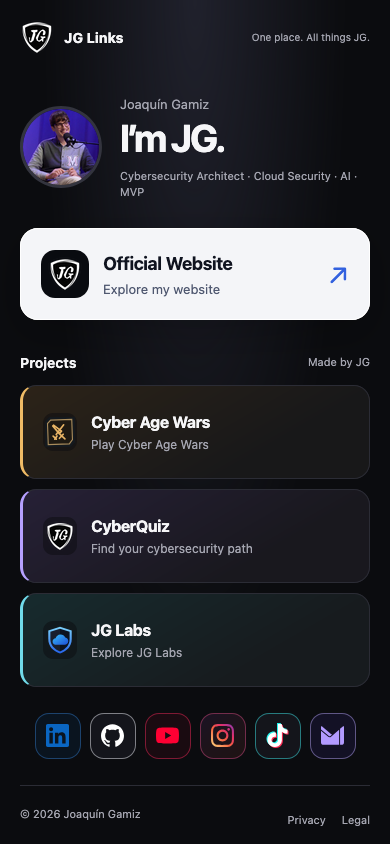
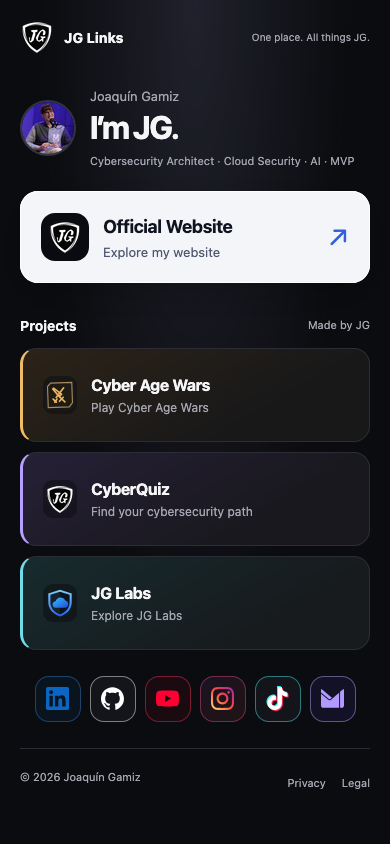
fix: compact portrait and refresh cached responsive styles

diff --git a/assets/css/main.css b/assets/css/main.css
@@ -17,15 +17,16 @@ img { display: block; max-width: 100%; }
 .shell { width: min(calc(100% - 40px), 800px); margin-inline: auto; }
 .skip-link { position: fixed; top: 12px; left: 12px; z-index: 10; padding: 12px 18px; background: white; color: black; border-radius: 8px; transform: translateY(-160%); }
 .skip-link:focus { transform: none; }
-.site-header { display: flex; align-items: center; justify-content: space-between; padding-block: 28px; }
+.site-header { display: flex; align-items: center; justify-content: space-between; gap: 12px; padding-block: 20px; }
 .brand { display: flex; align-items: center; gap: 10px; font-weight: 750; font-size: 14px; }
 .brand img { width: 34px; height: 34px; object-fit: contain; }
 .header-note { color: var(--muted); font-size: 12px; }
-.profile { display: flex; gap: 24px; align-items: center; padding-block: 34px 36px; }
-.portrait { width: 112px; height: 112px; object-fit: cover; border-radius: 50%; border: 3px solid #33343e; }
+.profile { display: flex; gap: 18px; align-items: center; padding-block: 18px 26px; }
+.profile > div { min-width: 0; }
+.portrait { width: 72px; height: 72px; flex: 0 0 72px; aspect-ratio: 1; object-fit: cover; border-radius: 50%; border: 2px solid #33343e; }
 .eyebrow { margin: 0 0 4px; color: var(--muted); font-size: 13px; }
-h1 { margin: 0; font-size: clamp(38px, 7vw, 52px); line-height: 1.1; letter-spacing: -.055em; }
-.roles { color: var(--muted); margin: 12px 0 0; max-width: 430px; font-size: 13px; }
+h1 { margin: 0; font-size: clamp(32px, 6vw, 40px); line-height: 1.1; letter-spacing: -.055em; }
+.roles { color: var(--muted); margin: 8px 0 0; max-width: 430px; font-size: 13px; }
 .primary-link { display: flex; align-items: center; gap: 18px; padding: 25px 28px; border-radius: 18px; background: #f4f5f8; color: #101420; border: 1px solid white; box-shadow: 0 12px 40px #0003; transition: transform 180ms ease, box-shadow 180ms ease; }
 .primary-link:hover { transform: translateY(-3px); box-shadow: 0 12px 40px #4278ff28; }
 .primary-copy { display: grid; gap: 3px; }
@@ -49,7 +50,7 @@ h1 { margin: 0; font-size: clamp(38px, 7vw, 52px); line-height: 1.1; letter-spac
 .project-cyber-age-wars { --accent: #efbb66; background: linear-gradient(150deg, #2c2318, #181819 70%); }
 .project-cyberquiz-start { --accent: #b6a0ff; background: linear-gradient(150deg, #262036, #19181e 70%); }
 .project-jg-labs { --accent: #71dbea; background: linear-gradient(150deg, #172b2e, #171b1e 70%); }
-.project-top { display: flex; align-items: center; justify-content: space-between; color: var(--accent); margin-bottom: 30px; }
+.project-top { display: flex; align-items: center; justify-content: space-between; color: var(--accent); margin-bottom: 22px; }
 .project-top > span:last-child { font-size: 18px; }
 .project-card strong { font-size: 17px; letter-spacing: -.025em; }
 .project-description { margin-top: 5px; font-size: 12px; color: var(--muted); }
@@ -72,11 +73,11 @@ h1 { margin: 0; font-size: clamp(38px, 7vw, 52px); line-height: 1.1; letter-spac
 .utility-page { padding-block: 80px; max-width: 640px; }
 .utility-page > p { color: var(--muted); margin-block: 24px; }
 .utility-page > p a { text-decoration: underline; text-underline-offset: 4px; }
-@media (max-width: 560px) {
+@media (max-width: 680px) {
   .site-header { padding-block: 20px; }
   .header-note { font-size: 10px; }
-  .profile { gap: 18px; padding-block: 20px 28px; }
-  .portrait { width: 82px; height: 82px; flex: 0 0 auto; }
+  .profile { gap: 14px; padding-block: 12px 22px; }
+  .portrait { width: 56px; height: 56px; flex-basis: 56px; }
   .roles { font-size: 11px; margin-top: 8px; }
   .primary-link { padding: 20px; gap: 14px; }
   .primary-copy strong { font-size: 18px; }

diff --git a/index.html b/index.html
@@ -17,7 +17,7 @@
   <meta name="twitter:card" content="summary_large_image">
   <title>JG Links · Cybersecurity, Cloud & AI</title>
   <link rel="icon" href="assets/images/jg-logo.png" type="image/png">
-  <link rel="stylesheet" href="assets/css/main.css">
+  <link rel="stylesheet" href="assets/css/main.css?v=20382139d775">
   <script type="application/ld+json">
     {
       "@context": "https://schema.org",
@@ -48,7 +48,7 @@
     </header>
     <main id="main-content">
       <section class="profile" aria-labelledby="profile-title">
-        <img class="portrait" src="assets/images/joaquin-linkedin.jpeg" alt="Joaquín Gamiz speaking on a podcast" width="800" height="800" fetchpriority="high">
+        <img class="portrait" src="assets/images/joaquin-linkedin.jpeg" alt="Joaquín Gamiz speaking on a podcast" width="72" height="72" fetchpriority="high" decoding="async">
         <div><p class="eyebrow">Joaquín Gamiz</p><h1 id="profile-title">I’m JG.</h1>
         <p class="roles">Cybersecurity Architect · Cloud Security · AI · MVP</p></div>
       </section>

diff --git a/src/index.template.html b/src/index.template.html
@@ -48,7 +48,7 @@
     </header>
     <main id="main-content">
       <section class="profile" aria-labelledby="profile-title">
-        <img class="portrait" src="assets/images/joaquin-linkedin.jpeg" alt="Joaquín Gamiz speaking on a podcast" width="800" height="800" fetchpriority="high">
+        <img class="portrait" src="assets/images/joaquin-linkedin.jpeg" alt="Joaquín Gamiz speaking on a podcast" width="72" height="72" fetchpriority="high" decoding="async">
         <div><p class="eyebrow">Joaquín Gamiz</p><h1 id="profile-title">I’m JG.</h1>
         <p class="roles">Cybersecurity Architect · Cloud Security · AI · MVP</p></div>
       </section>

diff --git a/docs/validation-report.md b/docs/validation-report.md
@@ -12,7 +12,18 @@ Date: 2026-11-16
 
 ## Local validation
 
-- `npm run check`: 25 tests passed; generated HTML is current and all resources in the three HTML files resolve.
+### Compact profile correction
+
+- Portrait reduced from 112/82 px to 72 px desktop and 56 px mobile.
+- HTML dimensions are 72 × 72, verified even with the stylesheet blocked.
+- Header/profile spacing reduced; project rows extend to 680 px to prevent cramped intermediate layouts.
+- Main stylesheet URL includes a content hash so browser caches fetch updated CSS after changes.
+- Firefox, Chromium and WebKit: passed at 320, 375, 390, 430, 560, 680, 768, 1024 and 1440 px.
+- No horizontal overflow, profile/link overlaps, clipped project text, broken images, page errors or HTTP resource errors in those checks.
+- Keyboard skip link verified with Tab (Firefox/Chromium) and Option-Tab (WebKit).
+- Updated desktop/mobile screenshots and Open Graph image reflect the compact profile.
+
+- `npm run check`: 26 tests passed; generated HTML is current and all resources in the three HTML files resolve.
 - Firefox screenshots reviewed at 1440 × 1000 and 390 × 844.
 - Desktop shows a three-column project grid. Mobile shows three compact rows.
 - All visible social links have accessible names. Keyboard focus and reduced-motion support remain present.
@@ -24,7 +35,7 @@ Date: 2026-11-16
 
 ## Configuration and release status
 
-- Repository implementation: complete on `codex/minimal-link-hub`.
+- Repository implementation: compact profile correction complete on `codex/compact-profile-fix`.
 - GitHub Pages URL and canonical: unchanged, `https://joaquingamiz.github.io/Links/`.
 - DNS / Cloudflare / Web-JG: unchanged.
 - Production release of this revision: pending PR integration and Pages deployment.
